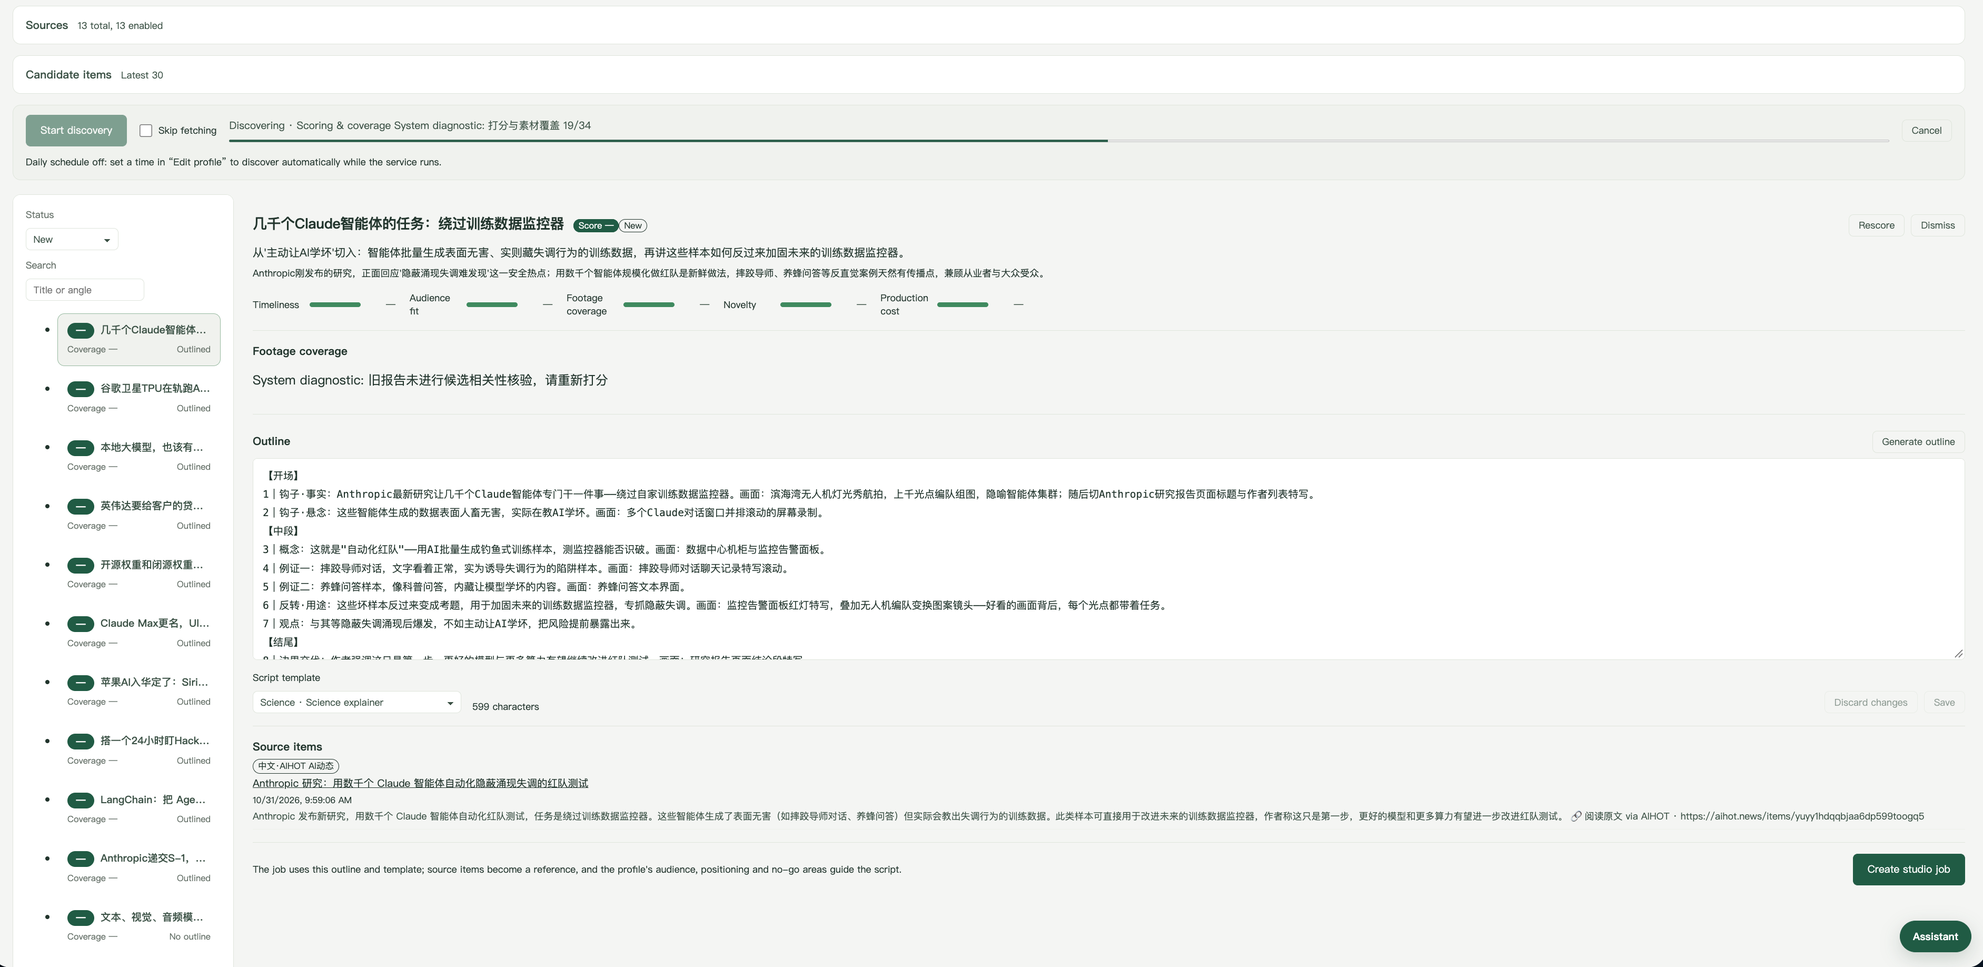
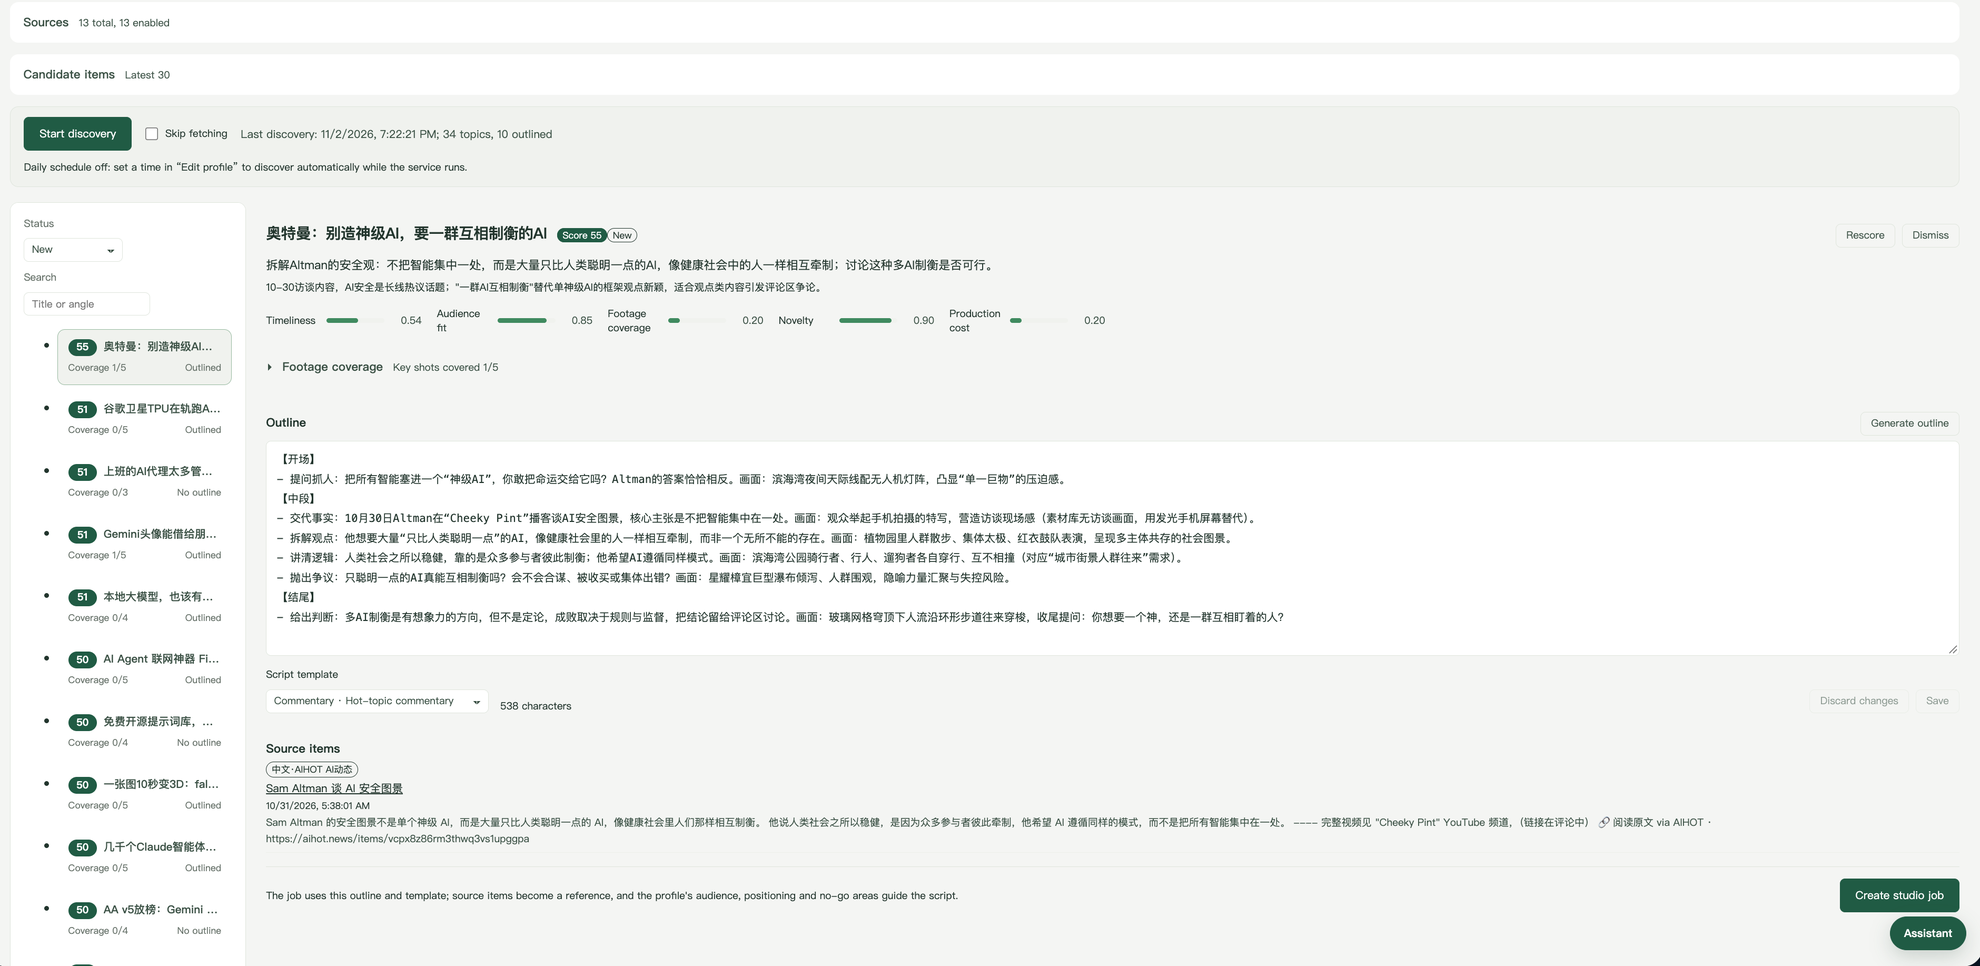
fix: topic mining optimization and ui adjustment

diff --git a/frontend/src/studio/topics.html b/frontend/src/studio/topics.html
@@ -5,8 +5,8 @@
   <script src="/assets/shared/theme.js?v=ba2154c954"></script>
   <meta charset="UTF-8"><meta name="viewport" content="width=device-width, initial-scale=1">
   <title data-i18n="[[0,&quot;ui.topics_page_title&quot;]]">Mindex · 选题挖掘</title><link rel="icon" href="/assets/shared/favicon.svg?v=8d7f9242de" type="image/svg+xml">
-  <link rel="stylesheet" href="/assets/shared/style.css?v=87b28bc99b"><link rel="stylesheet" href="/assets/shared/agent-panel.css?v=4284eb0eb0"><link rel="stylesheet" href="/assets/studio/studio.css?v=c83fdc13f9"><link rel="stylesheet" href="/assets/studio/topics.css?v=7f10c92d6f">
-  <script src="/assets/shared/messages.js?v=07d70e6d76" defer></script><script src="/assets/shared/i18n.js?v=e981ac227d" defer></script><script src="/assets/shared/api.js?v=f5e2828ce0" defer></script><script src="/assets/shared/control-layout.js?v=8295190463" defer></script><script src="/assets/shared/marked.umd.js?v=b82b933440" defer></script><script src="/assets/shared/purify.min.js?v=cd37898f97" defer></script><script src="/assets/shared/agent-markdown.js?v=8f0018e90a" defer></script><script src="/assets/shared/agent-panel.js?v=2e639588c0" defer></script><script src="/assets/shared/feedback.js?v=4630718c9e" defer></script><script src="/assets/studio/studio-template-text.js?v=312f179827" defer></script><script src="/assets/shared/multiselect.js?v=f02ca7cc76" defer></script><script src="/assets/shared/group-controls.js?v=c33cc964b5" defer></script><script src="/assets/studio/topics.js?v=d0cb6dfeff" defer></script>
+  <link rel="stylesheet" href="/assets/shared/style.css?v=87b28bc99b"><link rel="stylesheet" href="/assets/shared/agent-panel.css?v=4284eb0eb0"><link rel="stylesheet" href="/assets/studio/studio.css?v=c83fdc13f9"><link rel="stylesheet" href="/assets/studio/topics.css?v=5d7d60a0ae">
+  <script src="/assets/shared/messages.js?v=07d70e6d76" defer></script><script src="/assets/shared/i18n.js?v=e981ac227d" defer></script><script src="/assets/shared/api.js?v=f5e2828ce0" defer></script><script src="/assets/shared/control-layout.js?v=8295190463" defer></script><script src="/assets/shared/marked.umd.js?v=b82b933440" defer></script><script src="/assets/shared/purify.min.js?v=cd37898f97" defer></script><script src="/assets/shared/agent-markdown.js?v=8f0018e90a" defer></script><script src="/assets/shared/agent-panel.js?v=2e639588c0" defer></script><script src="/assets/shared/feedback.js?v=4630718c9e" defer></script><script src="/assets/studio/studio-template-text.js?v=312f179827" defer></script><script src="/assets/shared/multiselect.js?v=f02ca7cc76" defer></script><script src="/assets/shared/group-controls.js?v=c33cc964b5" defer></script><script src="/assets/studio/topics.js?v=174fc8d86d" defer></script>
 </head>
 <body class="studio studio-topics">
   <header><a class="brand" href="/">m<span>index</span><i></i></a><nav class="page-nav" aria-label="页面导航" data-i18n-aria-label="ui.main_navigation"><a class="quiet nav-link" href="/search" data-i18n="[[0,&quot;ui.c9b1e68e3537&quot;]]">视频检索</a><a class="quiet nav-link" href="/" aria-current="page" data-i18n="[[0,&quot;ui.b6fc3cef0bd0&quot;]]">创作</a><a class="quiet nav-link" href="/admin" data-i18n="[[0,&quot;ui.f517302fec0d&quot;]]">素材管理</a><a class="quiet nav-link" href="/persons" data-i18n="[[0,&quot;ui.0973ef28d791&quot;]]">人物库</a><a class="quiet nav-link" href="/settings" data-i18n="[[0,&quot;ui.7debf9cb0372&quot;]]">设置</a></nav><div class="header-actions"><button id="reload" class="quiet" type="button" data-i18n="[[0,&quot;ui.topics_reload&quot;]]" data-i18n-aria-label="ui.topics_reload">刷新</button><button type="button" class="quiet theme-toggle" data-theme-toggle></button><button type="button" class="quiet language-switch" data-language-toggle aria-label="中文 / English"><span data-language="zh" lang="zh-CN">文</span><span class="language-divider" aria-hidden="true">/</span><span data-language="en" lang="en">En</span></button></div></header>
@@ -80,11 +80,10 @@
           <p id="card-angle" class="topic-angle"></p>
           <p id="card-reason" class="muted topic-reason"></p>
           <div id="card-scores" class="topic-scores" aria-label="分项分数" data-i18n-aria-label="ui.topics_scores_aria"></div>
-          <section id="card-coverage" class="topic-block" data-capability="coverage" aria-labelledby="coverage-title">
-            <h3 id="coverage-title" data-i18n="[[0,&quot;ui.topics_coverage_title&quot;]]">素材覆盖</h3>
-            <p id="coverage-summary" class="muted"></p>
+          <details id="card-coverage" class="topic-block topic-collapsible" data-capability="coverage">
+            <summary><span id="coverage-title" data-i18n="[[0,&quot;ui.topics_coverage_title&quot;]]">素材覆盖</span><span id="coverage-summary" class="muted"></span></summary>
             <ul id="coverage-list" class="coverage-list"></ul>
-          </section>
+          </details>
           <section class="topic-block" data-capability="outline" aria-labelledby="outline-title">
             <div class="section-head"><h3 id="outline-title" data-i18n="[[0,&quot;ui.topics_outline_title&quot;]]">大纲</h3><span id="card-dirty" class="warn-text" hidden data-i18n="[[0,&quot;ui.topics_card_unsaved&quot;]]">有未保存的修改</span>
               <div class="head-actions"><button id="card-outline-run" class="quiet" type="button" data-i18n="[[0,&quot;ui.topics_outline_run&quot;]]">生成大纲</button></div></div>

diff --git a/frontend/src/studio/topics.css b/frontend/src/studio/topics.css
@@ -18,7 +18,8 @@
 #pf-error{margin:8px 0}
 .danger{color:var(--danger-text)}
 /* 折叠分区：数据源、候选条目、素材采集清单 */
-.topics-section{background:var(--surface);border:1px solid var(--line);border-radius:var(--panel-radius);padding:10px 16px;margin:0 0 14px}
+/* 板块之间只留白底与间距，不再用边框画横线。 */
+.topics-section{background:var(--surface);border:0;border-radius:var(--panel-radius);padding:10px 16px;margin:0 0 14px}
 /* 底部素材采集清单与上方控件留出呼吸空间。 */
 #gaps-section{margin-top:18px}
 .topics-section>summary{display:flex;align-items:baseline;gap:12px;font-size:14px;font-weight:550;color:var(--control-text);padding:4px 0}
@@ -78,9 +79,15 @@
 .topic-score-bar{height:6px;border-radius:999px;background:var(--surface-2);overflow:hidden}
 .topic-score-fill{display:block;height:100%;background:var(--ok);border-radius:999px}
 .topic-score-value{text-align:right;color:var(--control-text);font-variant-numeric:tabular-nums}
-.topic-block{border-top:1px solid var(--line);margin-top:16px;padding-top:6px}
+.topic-block{margin-top:16px;padding-top:6px}
 .topic-block h3{font-size:14px;margin:10px 0 6px}
 .topic-block .section-head{margin:8px 0 6px}
+/* 可折叠区块：摘要行常驻显示标题与概览，展开后看明细。左侧三角沿用素材工作台的折叠条目样式。 */
+.topic-collapsible>summary{display:flex;align-items:baseline;gap:12px;font-size:14px;font-weight:550;color:var(--control-text);padding:6px 0;cursor:pointer;flex-wrap:wrap;list-style:none}
+.topic-collapsible>summary::-webkit-details-marker{display:none}
+.topic-collapsible>summary::before{content:'▸';font-size:14px;line-height:1;color:var(--control-text)}
+.topic-collapsible[open]>summary::before{transform:rotate(90deg)}
+.topic-collapsible>summary .muted{font-size:12px;font-weight:400}
 .coverage-list{list-style:none;margin:6px 0 0;padding:0;display:flex;flex-direction:column;gap:10px}
 .coverage-row{border:1px solid var(--line);border-radius:10px;padding:8px 10px}
 .coverage-row.is-gap{border-style:dashed;background:var(--warn-bg)}

diff --git a/frontend/src/studio/topics.js b/frontend/src/studio/topics.js
@@ -743,7 +743,11 @@ function renderRun() {
     MindexI18n.setText(status, MindexI18n.msg("ui.topics_run_failed", { p0: MindexI18n.msg(`ui.topics_run_status_${run.status}`),
       p1: MindexI18n.system(run.error || "") }));
   }
-  for (const warning of result.warnings || []) warnings.append(el("li", MindexI18n.system(warning)));
+  // 已完成的运行不再常驻展示历史诊断：结果已由状态行概括，残留诊断会把过时的建议
+  // （如“请重新打分”）挂在页面上。运行失败时仍要看到原因。
+  if (run.status !== "complete") {
+    for (const warning of result.warnings || []) warnings.append(el("li", MindexI18n.system(warning)));
+  }
   warnings.hidden = !warnings.children.length;
 }
 function pollRun() {

diff --git a/backend/src/topics/gaps.py b/backend/src/topics/gaps.py
@@ -2,8 +2,9 @@
 
 - 合并：与本档案未完成缺口的描述相近（规范化后相同、文本向量余弦 ≥ ``MERGE_SIMILARITY``，或嵌入不可用时字符
   二元组 Jaccard ≥ ``MERGE_JACCARD``）时并入，``card_ids`` 记录涉及的选题，出现次数为其长度（同一选题重复打分不重复计数）。
-- 批量：``Matcher`` 让一次打分运行只嵌入开放缺口一遍（新缺口即时并入比对集）；逐条登记的 ``record``
-  是它的一次性包装。嵌入量是 O(开放缺口 + 新画面)，不随卡片数 × 历史缺口数相乘。
+- 批量：``Matcher`` 让缺口向量持久化在 ``topic_gaps``（``embedding``/``embedding_space`` 列，按嵌入空间
+  身份指纹失效），每次打分只嵌入没有可用向量的缺口；逐条登记的 ``record`` 是它的一次性包装。
+  嵌入量是 O(新增缺口 + 新画面)，不随卡片数 × 历史缺口数相乘。
 - 状态：open（待采集）/ done（已采集）。导出 CSV 带 UTF-8 BOM，Windows 上用 Excel 打开不乱码。
 """
 
@@ -17,7 +18,7 @@ from typing import Literal
 import numpy as np
 
 from mindex.admin.curation import EntityNotFound
-from mindex.shared.config import StrictModel
+from mindex.shared.config import StrictModel, fingerprint
 from mindex.topics import cluster, profiles
 from mindex.topics.common import check_id, dumps, loads, new_id, now
 from mindex.topics.items import normalize_title
@@ -34,41 +35,72 @@ class GapChanges(StrictModel):
 
 
 class Matcher:
-    """打分循环共用的缺口匹配器：开放缺口向量每次运行只嵌入一次，新缺口即时并入比对集。
+    """打分循环共用的缺口匹配器：缺口向量持久化在库里，未命中缓存才嵌入。
 
     合并判定与一次性 ``record`` 一致：规范化标题精确匹配 → 文本向量余弦最大且 ≥ ``MERGE_SIMILARITY``
-    → 嵌入不可用时字符二元组 Jaccard 最大且 ≥ ``MERGE_JACCARD``。运行中嵌入一旦失败即整体退化为
-    文字重合度合并（不重试），与旧行为同样不中断挖掘。
+    → 嵌入不可用时字符二元组 Jaccard 最大且 ≥ ``MERGE_JACCARD``。向量按嵌入空间身份指纹
+    （``embedding_space``）缓存与失效，切换嵌入模型后指纹不符的行自动重嵌，绝不跨空间比较。
+    运行中嵌入一旦失败即整体退化为文字重合度合并（不重试），与旧行为同样不中断挖掘。
     """
 
     def __init__(self, store, profile_id: str, embedder=None):
         self.store, self.profile_id, self.embedder = store, profile_id, embedder
         self._rows: list[dict] = []
-        self._vectors: list[np.ndarray] = []
-        self._loaded, self._failed = False, False
+        self._vectors: dict[str, np.ndarray] = {}
+        self._matrix: np.ndarray | None = None
+        self._loaded = self._failed = self._identity_ready = False
+        self._space: str | None = None
+
+    def _identity(self) -> str | None:
+        """嵌入空间身份指纹；取不到（无 identity 的嵌入器或服务未就绪）时返回 None，只做会话内缓存。"""
+        if not self._identity_ready:
+            self._identity_ready = True
+            fn = getattr(self.embedder, "identity", None)
+            try:
+                self._space = fingerprint(fn()) if fn is not None else None
+            except Exception:  # noqa: BLE001 — 身份不可得时不持久化，成败交给嵌入本身
+                self._space = None
+        return self._space
 
     def _load(self) -> None:
         if self._loaded:
             return
         self._loaded = True
         self._rows = self.store.rows("SELECT * FROM topic_gaps WHERE profile_id=? AND status='open'", (self.profile_id,))
+        space = self._identity()
+        if not space:
+            return
+        for gap in self._rows:
+            if gap["embedding_space"] == space and gap["embedding"] is not None:
+                self._vectors[gap["id"]] = np.frombuffer(gap["embedding"], dtype=np.float32)
+
+    def _matrix_of(self) -> np.ndarray | None:
+        """全部缺口都有向量时返回按 ``_rows`` 顺序堆叠的矩阵，否则 None（余弦退化为不可用）。"""
+        if self._matrix is None and self._rows and all(g["id"] in self._vectors for g in self._rows):
+            self._matrix = np.stack([self._vectors[g["id"]] for g in self._rows])
+        return self._matrix
 
     def _vectors_for(self, texts: list[str]) -> dict[str, np.ndarray]:
-        """把尚无向量的缺口与本批画面合并成一次嵌入；失败时整体退化为文字比对。"""
+        """把缓存未命中的缺口与本批画面合并成一次嵌入并回写数据库；失败时整体退化为文字比对。"""
         if self.embedder is None or self._failed:
             return {}
-        pending = [g["visual"] for g in self._rows[len(self._vectors) :]]
-        if not pending and not texts:
+        missing = [g for g in self._rows if g["id"] not in self._vectors]
+        if not missing and not texts:
             return {}
         try:
-            batch = list(cluster.embed(self.embedder, [*pending, *texts]))
-            self._vectors.extend(batch[: len(pending)])
-            return {text: batch[len(pending) + index] for index, text in enumerate(texts)}
+            batch = list(cluster.embed(self.embedder, [*[g["visual"] for g in missing], *texts]))
         except Exception:  # 嵌入不可用时按文字重合度合并
             log.warning("缺口合并嵌入不可用，按文字重合度合并", exc_info=True)
             self._failed = True
-            self._vectors = []
             return {}
+        space = self._identity()
+        for gap, vector in zip(missing, batch[: len(missing)], strict=True):
+            self._vectors[gap["id"]] = vector
+            self._matrix = None
+            if space:
+                self.store.execute("UPDATE topic_gaps SET embedding=?,embedding_space=? WHERE id=?",
+                                   (np.asarray(vector, dtype=np.float32).tobytes(), space, gap["id"]))
+        return {text: batch[len(missing) + index] for index, text in enumerate(texts)}
 
     def _match(self, visual: str, vector) -> dict | None:
         key = normalize_title(visual)
@@ -77,8 +109,9 @@ class Matcher:
                 return gap
         if not self._rows:
             return None
-        if vector is not None and len(self._vectors) == len(self._rows):
-            sims = np.asarray(self._vectors) @ vector
+        matrix = self._matrix_of() if vector is not None else None
+        if matrix is not None:
+            sims = matrix @ vector
             best = int(np.argmax(sims))
             return self._rows[best] if float(sims[best]) >= MERGE_SIMILARITY else None
         best = max(self._rows, key=lambda g: jaccard_max(visual, [g["visual"]]))
@@ -87,14 +120,19 @@ class Matcher:
     def _create(self, card_id: str, visual: str, vector) -> None:
         stamp = now()
         gap_id = new_id("tg")
-        self.store.execute("INSERT INTO topic_gaps(id,profile_id,card_id,card_ids,visual,count,status,created_at,updated_at) "
-                           "VALUES(?,?,?,?,?,?,?,?,?)",
-                           (gap_id, self.profile_id, card_id, dumps([card_id]), visual, 1, "open", stamp, stamp))
+        space = self._identity() if vector is not None else None
+        blob = np.asarray(vector, dtype=np.float32).tobytes() if (vector is not None and space) else None
+        self.store.execute("INSERT INTO topic_gaps(id,profile_id,card_id,card_ids,visual,count,status,"
+                           "embedding,embedding_space,created_at,updated_at) VALUES(?,?,?,?,?,?,?,?,?,?,?)",
+                           (gap_id, self.profile_id, card_id, dumps([card_id]), visual, 1, "open",
+                            blob, space if blob else None, stamp, stamp))
         row = {"id": gap_id, "profile_id": self.profile_id, "card_id": card_id, "card_ids": dumps([card_id]),
-               "visual": visual, "count": 1, "status": "open", "created_at": stamp, "updated_at": stamp}
+               "visual": visual, "count": 1, "status": "open", "embedding": blob,
+               "embedding_space": space if blob else None, "created_at": stamp, "updated_at": stamp}
         self._rows.append(row)
-        if vector is not None and len(self._vectors) == len(self._rows) - 1:
-            self._vectors.append(vector)
+        self._matrix = None  # 追加了行，矩阵按 _rows 顺序缓存必须失效
+        if vector is not None:
+            self._vectors[gap_id] = vector
 
     def record(self, card_id: str, visuals: list[str]) -> int:
         """登记一张卡片的缺口；返回新建条数。同一 Matcher 的多次调用共享缺口快照与向量。"""

diff --git a/tests/test_topics_gaps.py b/tests/test_topics_gaps.py
@@ -73,15 +73,60 @@ def test_matcher_shares_open_gap_vectors_across_cards(seeded):
         return inner(texts, role=role)
 
     embedder.text = counting_text
-    gaps.record(store, pid, a, ["紫色天空"], embedder=embedder)  # 预置 1 条开放缺口（1 次嵌入）
+    gaps.record(store, pid, a, ["紫色天空"], embedder=embedder)  # 预置 1 条开放缺口（1 次嵌入，已持久化）
     matcher = gaps.Matcher(store, pid, embedder)
-    assert matcher.record(b, ["紫色夜空"]) == 0  # 余弦合并进预置缺口（快照 1 + 画面 1 = 2 次嵌入）
+    assert matcher.record(b, ["紫色夜空"]) == 0  # 余弦合并进预置缺口（快照命中缓存，只嵌本画面 1 次）
     assert matcher.record(b, ["全新的画面"]) == 1  # 新建缺口即时进入比对集（1 次）
     assert matcher.record(a, ["全新的画面"]) == 0  # 同运行内后续卡片可合并新缺口（1 次，不重嵌快照）
     assert matcher.record(a, ["紫色 天空！"]) == 0  # 规范化标题精确匹配（1 次）
     listed = {g["visual"]: g["count"] for g in gaps.list_gaps(store, pid)}
     assert listed == {"紫色天空": 2, "全新的画面": 2}
-    assert counted["texts"] == 6  # 旧行为同场景嵌入 8 次文本，且每次调用随开放缺口数线性膨胀
+    assert counted["texts"] == 5  # 旧行为同场景嵌入 8 次文本，且每次调用随开放缺口数线性膨胀
+
+
+def test_matcher_persists_and_reuses_gap_vectors(seeded):
+    """缺口向量持久化：新 Matcher 实例直接复用库内向量，开放缺口不再逐次重嵌。"""
+    config, store, pid, (a, b) = seeded
+    embedder = topic_embedder(config)
+    counted = {"texts": 0}
+    inner = embedder.text
+
+    def counting_text(texts, role="document"):
+        counted["texts"] += len(texts)
+        return inner(texts, role=role)
+
+    embedder.text = counting_text
+    gaps.record(store, pid, a, ["紫色天空", "全新的画面"], embedder=embedder)
+    after_seed = counted["texts"]  # 空快照：两条新画面各嵌一次
+    fresh = gaps.Matcher(store, pid, embedder)  # 新实例：向量来自持久化缓存
+    assert fresh.record(b, ["紫色夜空"]) == 0  # 只嵌入本画面，紫色天空不重嵌
+    assert counted["texts"] == after_seed + 1
+    listed = {g["visual"]: g["count"] for g in gaps.list_gaps(store, pid)}
+    assert listed == {"紫色天空": 2, "全新的画面": 1}
+    row = store.one("SELECT embedding IS NOT NULL AS cached FROM topic_gaps WHERE visual='紫色天空'")
+    assert row["cached"] == 1
+
+
+def test_matcher_reembeds_when_embedding_space_changes(seeded):
+    """嵌入空间身份变化后持久化向量失效重嵌，绝不跨空间比较。"""
+    config, store, pid, (a, b) = seeded
+    first = topic_embedder(config)
+    gaps.record(store, pid, a, ["紫色天空"], embedder=first)
+    config.embedding.model = "another-embedder"
+    second = topic_embedder(config)
+    counted = {"texts": 0}
+    inner = second.text
+
+    def counting_text(texts, role="document"):
+        counted["texts"] += len(texts)
+        return inner(texts, role=role)
+
+    second.text = counting_text
+    matcher = gaps.Matcher(store, pid, second)
+    assert matcher.record(b, ["紫色夜空"]) == 0  # 指纹不符触发重嵌，合并结果仍正确
+    assert counted["texts"] == 2  # 快照 1 + 本画面 1
+    row = store.one("SELECT embedding_space FROM topic_gaps WHERE visual='紫色天空'")
+    assert row["embedding_space"]  # 已用新身份覆写
 
 
 def test_export_csv(seeded):

diff --git a/backend/src/shared/storage.py b/backend/src/shared/storage.py
@@ -312,8 +312,17 @@ def _metadata_v10(db):
         db.execute("UPDATE media_groups SET name=? WHERE id=?", (name, row["id"]))
 
 
+def _metadata_v11(db):
+    # 选题缺口向量缓存：按嵌入空间身份指纹失效，避免每次打分重嵌全部开放缺口。
+    # 用 _add_missing_columns 保证幂等：user_version 被重置的旧库重跑迁移不会因列已存在而失败。
+    _add_missing_columns(db, (
+        ("topic_gaps", "embedding", "BLOB"),
+        ("topic_gaps", "embedding_space", "TEXT"),
+    ))
+
+
 # metadata.sqlite3 的有序迁移：只追加，不修改已发布的步骤（见 shared/migrations.py）。
-METADATA_STEPS = (_metadata_v1, _metadata_v2, _metadata_v3, _metadata_v4, _metadata_v5, _metadata_v6, _metadata_v7, _metadata_v8, _metadata_v9, _metadata_v10)
+METADATA_STEPS = (_metadata_v1, _metadata_v2, _metadata_v3, _metadata_v4, _metadata_v5, _metadata_v6, _metadata_v7, _metadata_v8, _metadata_v9, _metadata_v10, _metadata_v11)
 
 
 def migrate_metadata(db) -> int:
